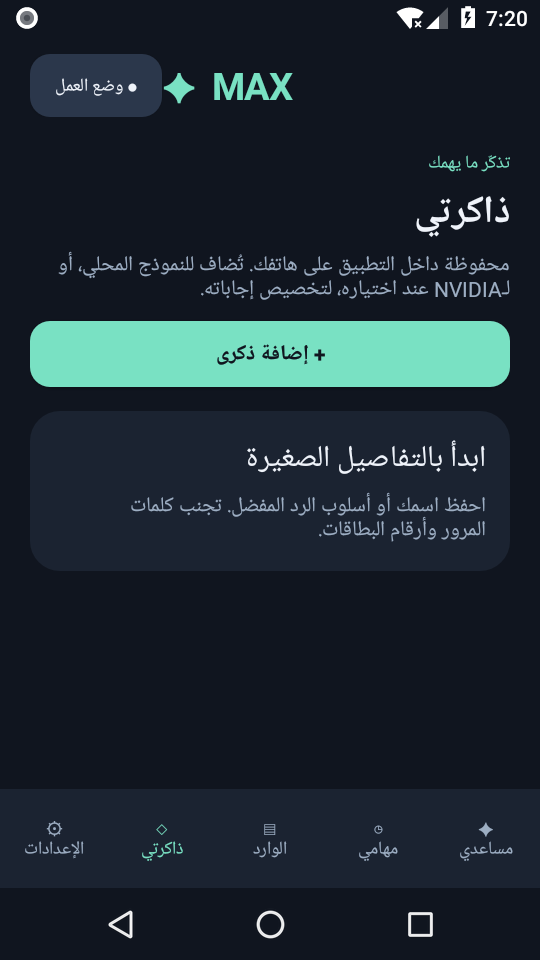
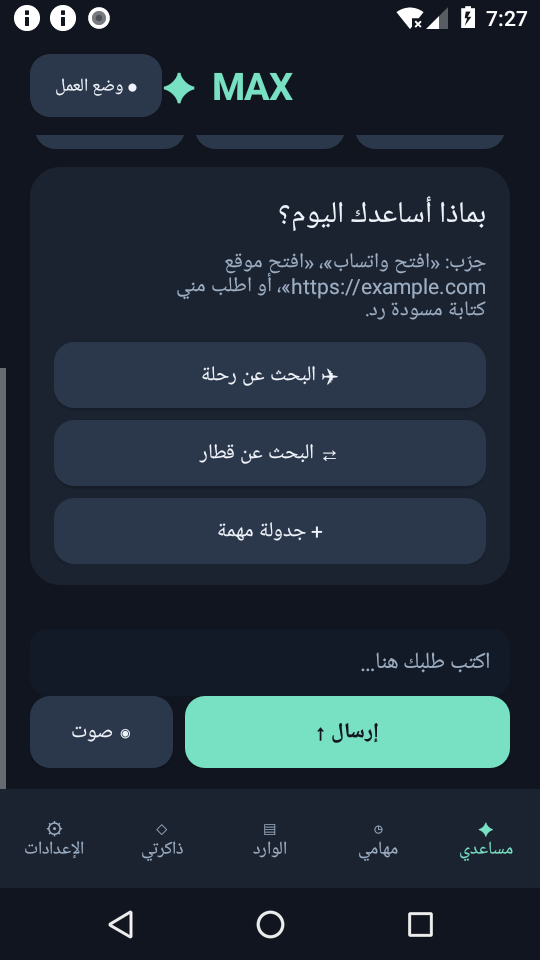
fix: use current SDK packages in CI and record Android QA

diff --git a/scripts/smoke-test.py b/scripts/smoke-test.py
@@ -3,6 +3,8 @@
 
 Run with an already booted disposable emulator, never a personal phone:
   python3 scripts/smoke-test.py --serial emulator-5554 --apk app/build/outputs/apk/debug/app-debug.apk
+Then optionally check a due task with the screen off (requires baseline synthetic task):
+  python3 scripts/smoke-test.py --serial emulator-5554 --background-check
 No messages, purchases, API calls or model downloads are performed.
 """
 import argparse
@@ -187,6 +189,7 @@ class Smoke:
         nodes = self.dump("launch")
         if self.find("استكشاف التطبيق", nodes) is not None:
             self.tap("استكشاف التطبيق")
+        self.tap("مساعدي")
         self.assert_text("مساعدي")
         self.screenshot("home")
         self.record("install_and_arabic_home", "passed")
@@ -254,10 +257,18 @@ def main():
     parser.add_argument("--serial", default="emulator-5554")
     parser.add_argument("--apk")
     parser.add_argument("--output", default="docs/qa")
+    parser.add_argument("--background-check", action="store_true", help="Advance a synthetic debug task fixture and check screen-off failure handling")
     args = parser.parse_args()
     smoke = Smoke(args)
     try:
-        smoke.run()
+        if args.background_check:
+            previous = smoke.out / "smoke-results.json"
+            if previous.exists():
+                smoke.results = json.loads(previous.read_text())["checks"]
+            smoke.sequence = 100
+            smoke.background_failure_check()
+        else:
+            smoke.run()
     except Exception as error:
         smoke.record("smoke_execution", "failed", str(error))
         raise

diff --git a/docs/qa/android-ui-smoke.md b/docs/qa/android-ui-smoke.md
@@ -1,0 +1,61 @@
+# Android UI smoke verification
+
+Device: disposable Android 8.0 / API 26 `default;x86_64` emulator, 540×960 at
+240 dpi, software CPU/GPU emulation (no KVM). Final APK installed successfully:
+`app/build/outputs/apk/debug/app-debug.apk`, SHA256
[1 lines of base64/hex data omitted]
+
+The first software boot completed in approximately 147 seconds. No installation
+or app code was changed for testing. ADB taps use bounds from UI XML, not image
+coordinates. All input data is synthetic and local to this disposable emulator.
+
+## Observed baseline checks
+
+| Check | Result | Evidence |
+|---|---|---|
+| APK installation, MainActivity, Arabic onboarding/home | PASS | `screenshots/first-launch.png`, `screenshots/home.png` |
+| Navigation through all five tabs | PASS | numbered UI XML captures |
+| Add local memory and persist across force-stop/relaunch | PASS | `screenshots/memory.png`, `smoke-results.json` |
+| Create task with future schedule | PASS | `screenshots/tasks.png` |
+| Work → sleep → work mode toggle | PASS | `smoke-results.json` |
+| Chat with missing local model shows actionable download/settings dialog | PASS | `screenshots/model-needed.png` |
+| Rotate activity and return to portrait | PASS | `smoke-results.json` |
+| Java/native fatal crash buffer after baseline | PASS, empty | `crash-logcat.txt` |
+| Scheduled task processes while screen is off | PASS, controlled missing-model failure | `screen-off-power.txt`, `screenshots/background-result.png` |
+
+The screen-off check confirmed `mWakefulness=Asleep` before the task was due.
+The task then recorded `failed` with the expected Arabic message explaining that
+the local model is not downloaded. This establishes execution and error handling
+while the screen is off, rather than claiming successful model inference on this
+emulator. Model generation and native Android loading have separate evidence below.
+
+## Reproduce
+
+With an already booted disposable emulator and installed Android platform tools:
+
+```sh
+python3 scripts/smoke-test.py --serial emulator-5554 \
+  --apk app/build/outputs/apk/debug/app-debug.apk
+python3 scripts/smoke-test.py --serial emulator-5554 --background-check
+```
+
+The optional background check advances the synthetic task's due-time fixture in
+the debug application's SQLite database while the app is stopped, enables the
+foreground session through the UI, turns the emulator screen off, and inspects
+the resulting task record. It does not send mail/messages or download models.
+
+## Scope limits
+
+This emulator has no user's Gmail/WhatsApp accounts, NVIDIA key, or actual booking
+accounts. Live mail, notification inline replies, NVIDIA quota/model access,
+real purchases, and device-specific speech recognition were not exercised.
+The API 26 run does not establish behavior on Android 14/15 battery/foreground
+restrictions or a manufacturer's firmware. Verify these on a representative phone.
+Actual local-model generation was verified separately by the host JNI harness;
+the Android APK's x86_64 native load/error/cancel path was also executed separately.
+See `model-runtime.md` and `android-native-runtime.md`.
+
+The initial ADB input helper was corrected to re-read field bounds after the IME
+shifted dialogs and to avoid dismissing a dialog when no keyboard was shown.
+The final baseline results above were observed after that helper correction;
+this did not require a product-code change.

diff --git a/docs/superpowers/plans/2026-11-10-max-android.md b/docs/superpowers/plans/2026-11-10-max-android.md
@@ -22,12 +22,18 @@ notification inbox, user-controlled background scheduler and local llama.cpp inf
 
 ## Tasks
 
-- [ ] Build tooling: pinned Gradle/AGP/SDK/llama, JNI cancellation and packaging.
-- [ ] Data and AI: SQLite models, encrypted secrets, verified model downloader,
+- [x] Build tooling: pinned Gradle/AGP/SDK/llama, JNI cancellation and packaging.
+- [x] Data and AI: SQLite models, encrypted secrets, verified model downloader,
       local/NVIDIA providers, deterministic command parsing and meaningful tests.
-- [ ] Tools: accessibility, reviewed browser/forms, notification replies, service/scheduling.
-- [ ] Product UI: onboarding, chat and voice, tasks, inbox, memory, settings and permissions.
-- [ ] Integrate, independent review, tests/lint, assemble and inspect APK, attempt emulator QA.
+- [x] Tools: accessibility, reviewed browser/forms, notification replies, service/scheduling.
+- [x] Product UI: onboarding, chat and voice, tasks, inbox, memory, settings and permissions.
+- [x] Integrate, independent review, tests/lint, assemble and inspect APK, attempt emulator QA.
+
+Observed validation: JVM 8/8, lint 0 errors/7 warnings, signed and aligned APK,
+actual host inference, Android native load and 9 emulator checks including screen-off
+background failure handling. Physical ARM64 execution and authenticated provider/app
+accounts remain untested. GitHub CI setup needed explicit platform-tools because the
+action's historical default requests removed package tools; corrected run is pending.
 
 ## Ownership and interfaces
 
